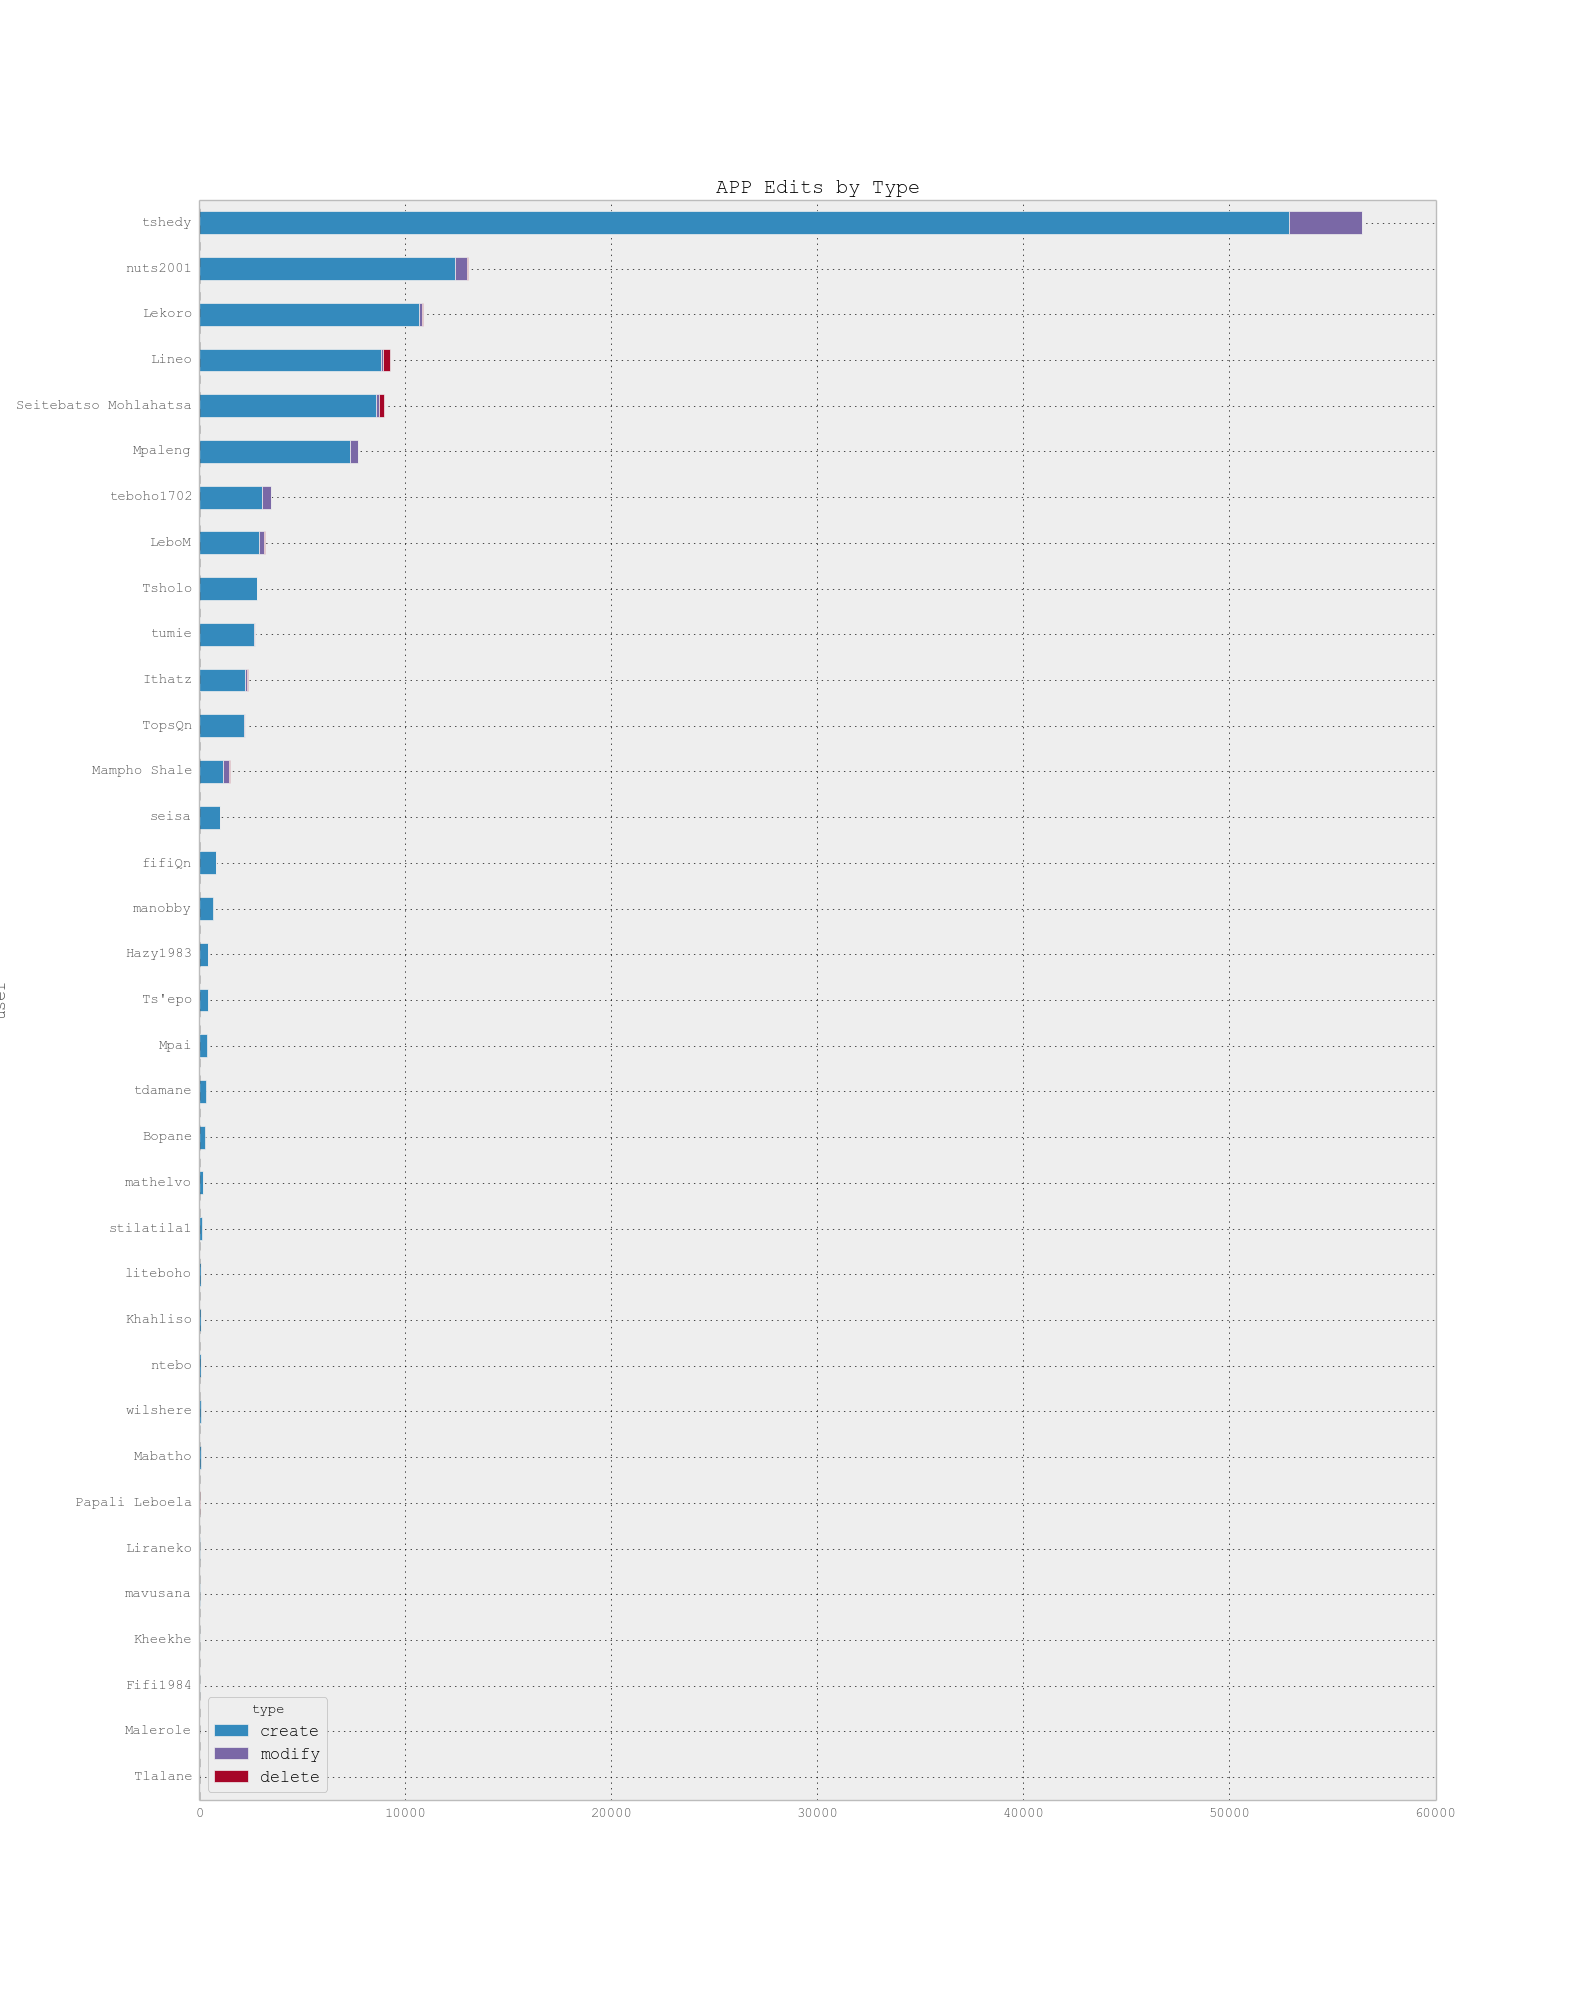
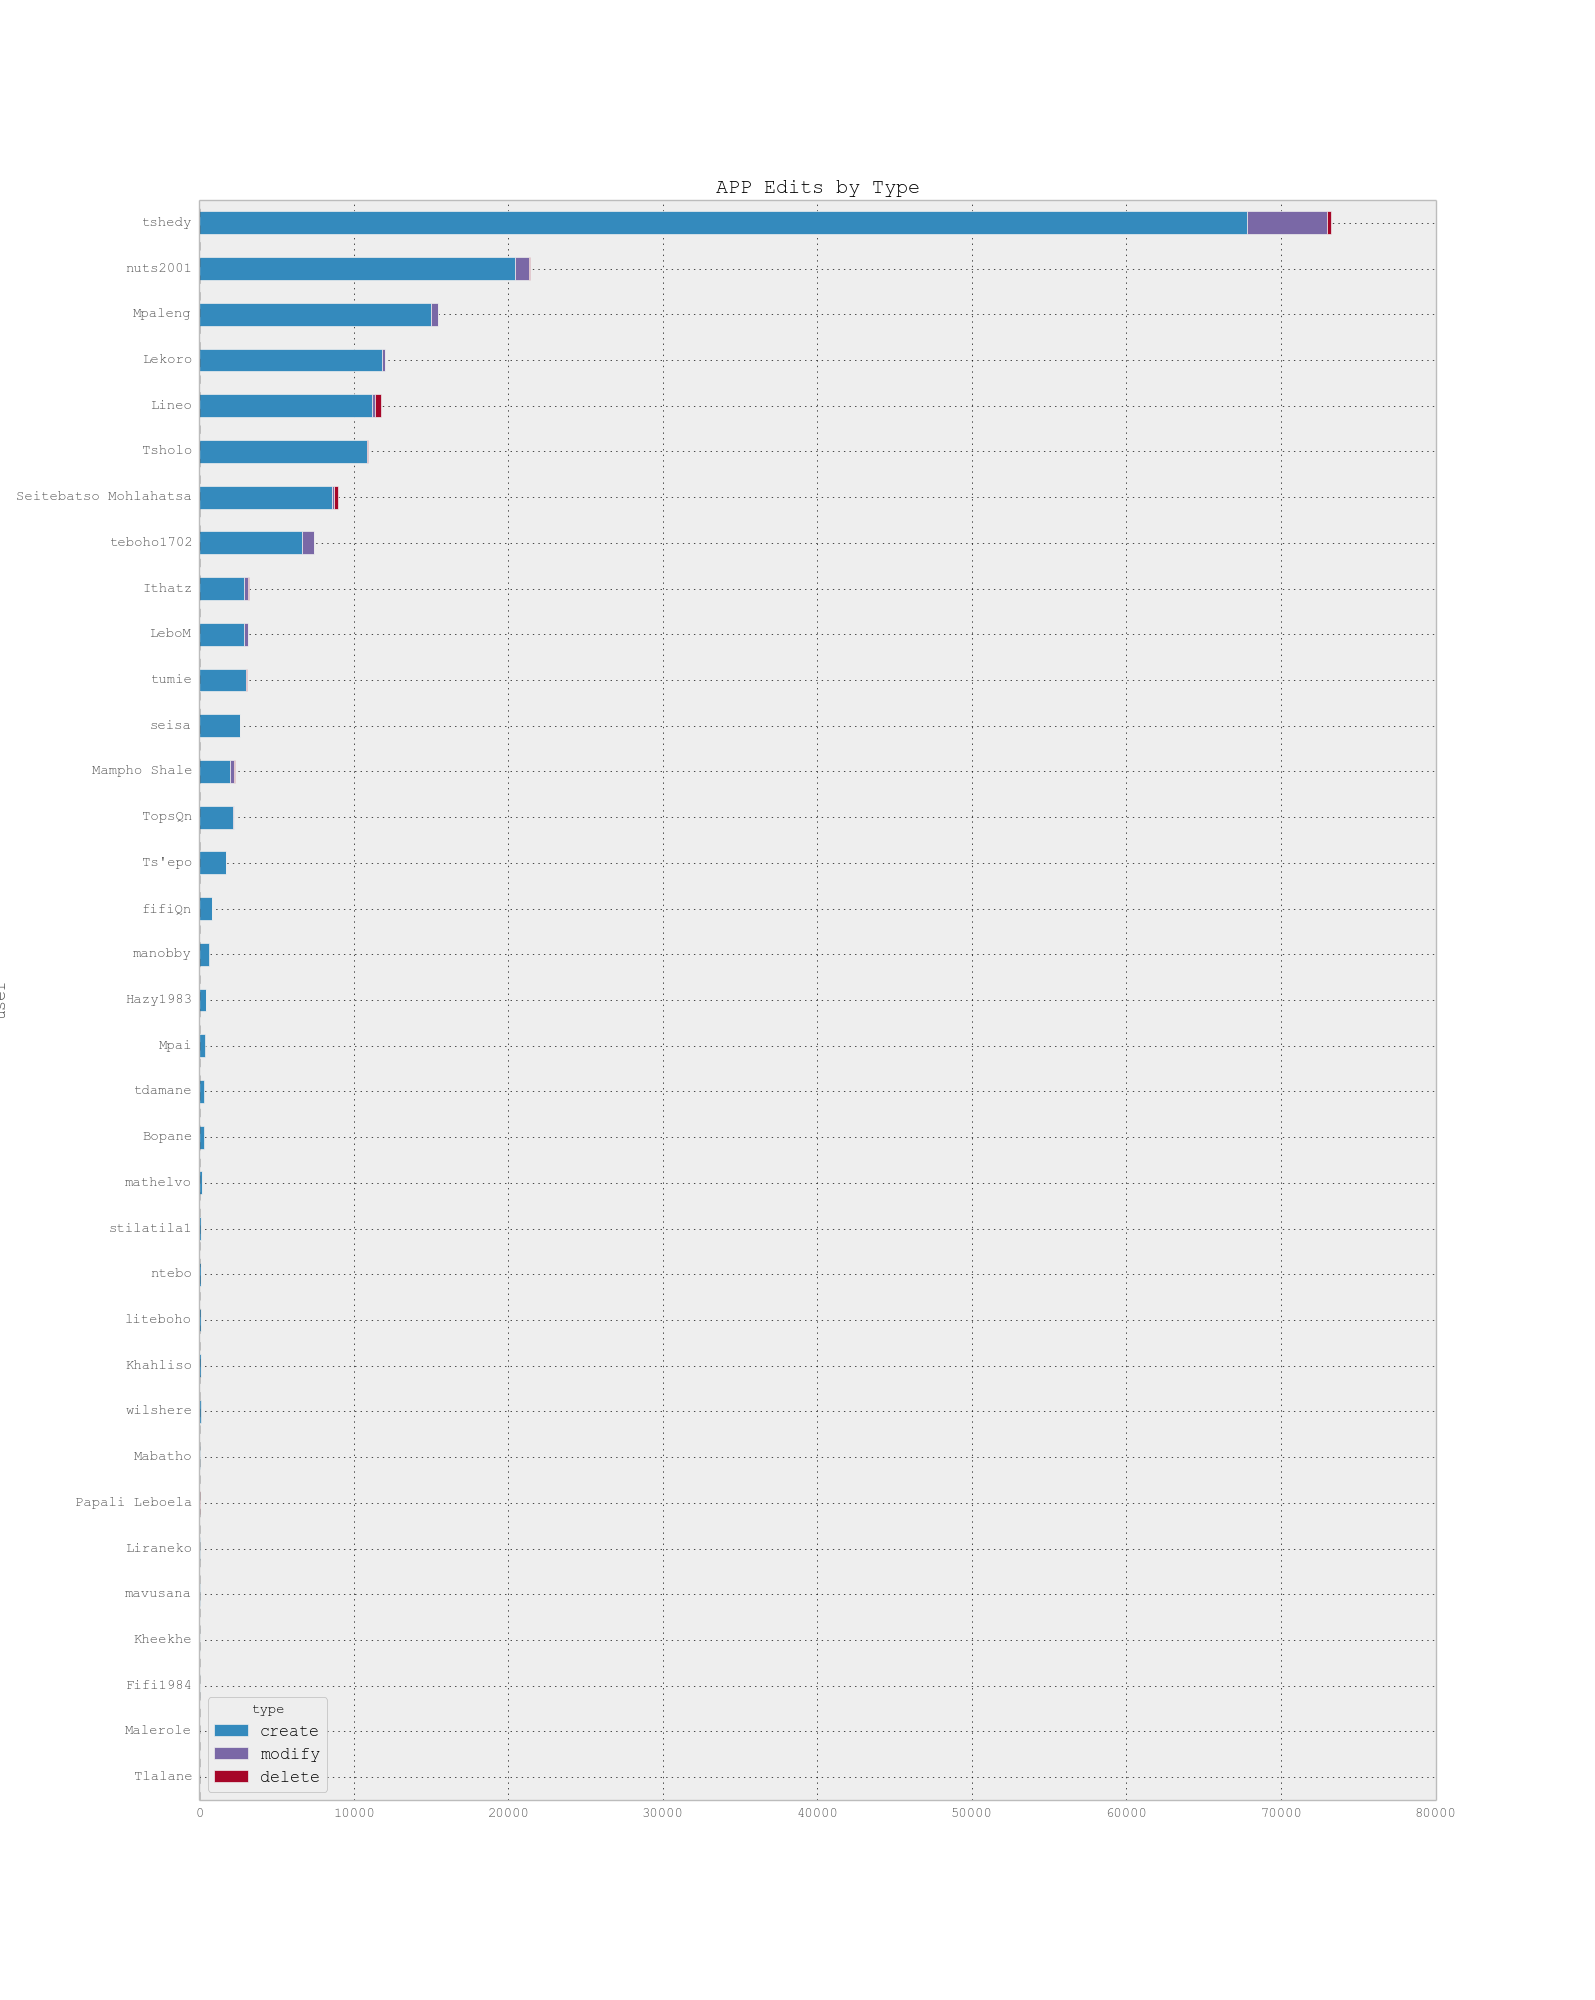
updated stats code for 25JUL

diff --git a/get_monthly_stats.py b/get_monthly_stats.py
@@ -5,6 +5,7 @@ import os
 import pandas as pd
 import numpy as np
 import matplotlib.pyplot as plt
+import cufflinks as cf
 
 pd.options.display.mpl_style = 'default' # set styles to nice colours for graphs
 
@@ -80,6 +81,9 @@ if len(les_apps) > 0:
 	ap_us.sort('total_edits')[['create', 'modify', 'delete']].plot(kind='barh', stacked=True, title="APP Edits by Type", figsize=(20,20)).get_figure().savefig('app_edits_by_type.png')
 	ap_us.sort('total_edits', ascending=False).to_csv("app_total_edits_by_type.csv")
 
+# plot timeline to plot.ly
+ts = lesa[lesa.index > '2015-01-01'].groupby(['type']).resample('D', how='size').unstack().T
+ts.iplot(filename='#MapLesotho Timeline', title='#MapLesotho Timeline', yTitle='Edit Count')
 
 sys.exit()
 
@@ -116,8 +120,8 @@ xxx.loc[ii.values][['create', 'modify']].plot(kind='barh', stacked=True)
 def f(s):
     return s/s.sum()
 
-yecapp = les_apps[['user', 'type']].groupby(['user','type']).size()
-yecapp.unstack().T.apply(f, axis=0).T.plot(kind='barh', stacked=True, title="APP '%' of edit type")
+yecapp = les_apps[['user', 'type']].groupby(['user','type']).size().unstack().T
+yecapp.apply(f, axis=0).T.plot(kind='barh', stacked=True, title="APP '%' of edit type")
 
 #plot_url = py.plot_mpl(yecapp.unstack().T.apply(f, axis=0).T.plot(kind='barh', stacked=True, title="APP '%' of edit type"))
 

diff --git a/lesotho_commands.md b/lesotho_commands.md
@@ -65,7 +65,14 @@ app_results = app_edits.groupby(['user']).agg()
 # get time series of daily create delete update...
 ts = test1.groupby(['type']).resample('D', how='size')
 ts = lesa[lesa.index > '2015-01-01'].groupby(['type']).resample('D', how='size')
-ts.unstack().T.iplot(filename='Test1')
 ts.unstack().T.iplot(filename='#MapLesotho Timeline', title='#MapLesotho Timeline', yTitle='Edit Count')
+
 tst.iplot(filename='#MapLesotho Timeline', title='#MapLesotho Timeline', yTitle='Edit Count', fill=True)
+
+annotations={'2015-03-28':'NUL Mapathon','2015-06-19':'AIT & APP','2015-06-18':'Pioneer Mall', '2015-04-18': 'Mohales Hoek', '2015-01-15': 'Maseru', '2015-02-13': 'Maseru'}
+
+tst[['create', 'delete','modify']].iplot(filename='#MapLesotho Timeline', title='#MapLesotho Timeline', yTitle='Edit Count', fill=True, annotations=annotations)
+
+tst.iplot(filename='#MapLesotho Timeline', title='#MapLesotho Timeline', yTitle='Edit Count', fill=True, annotations=annotations)
+
 
